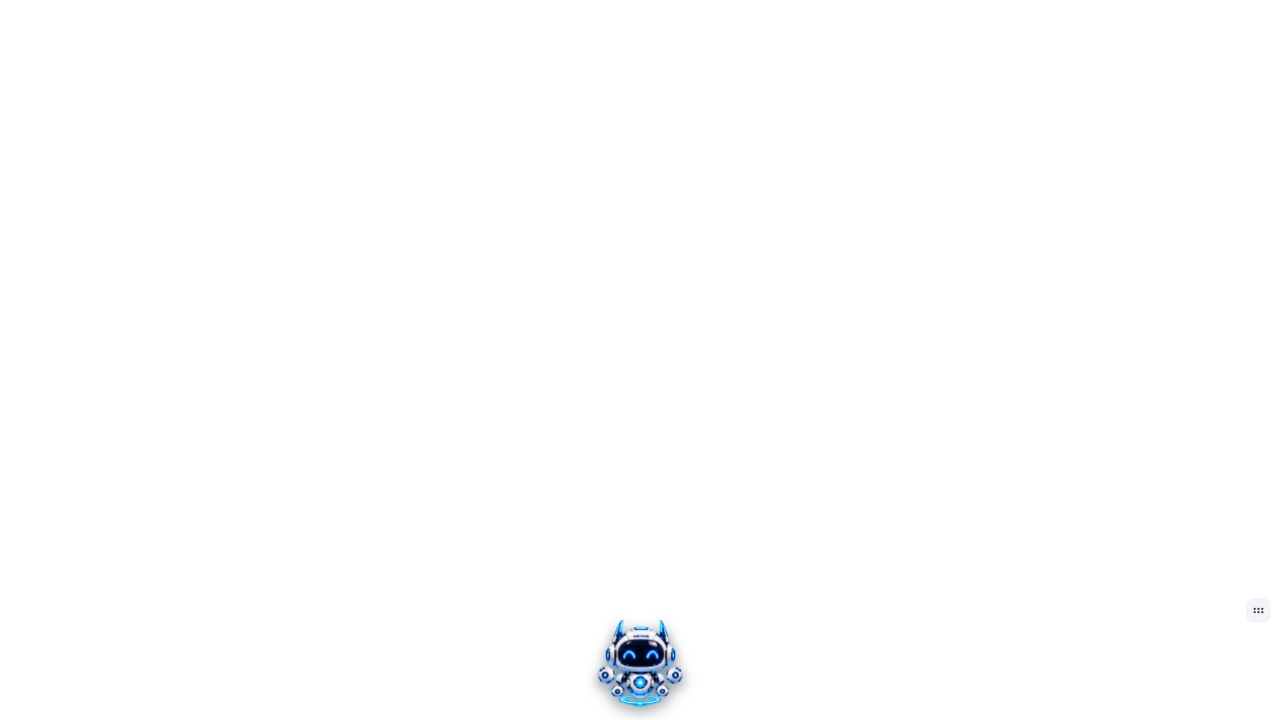
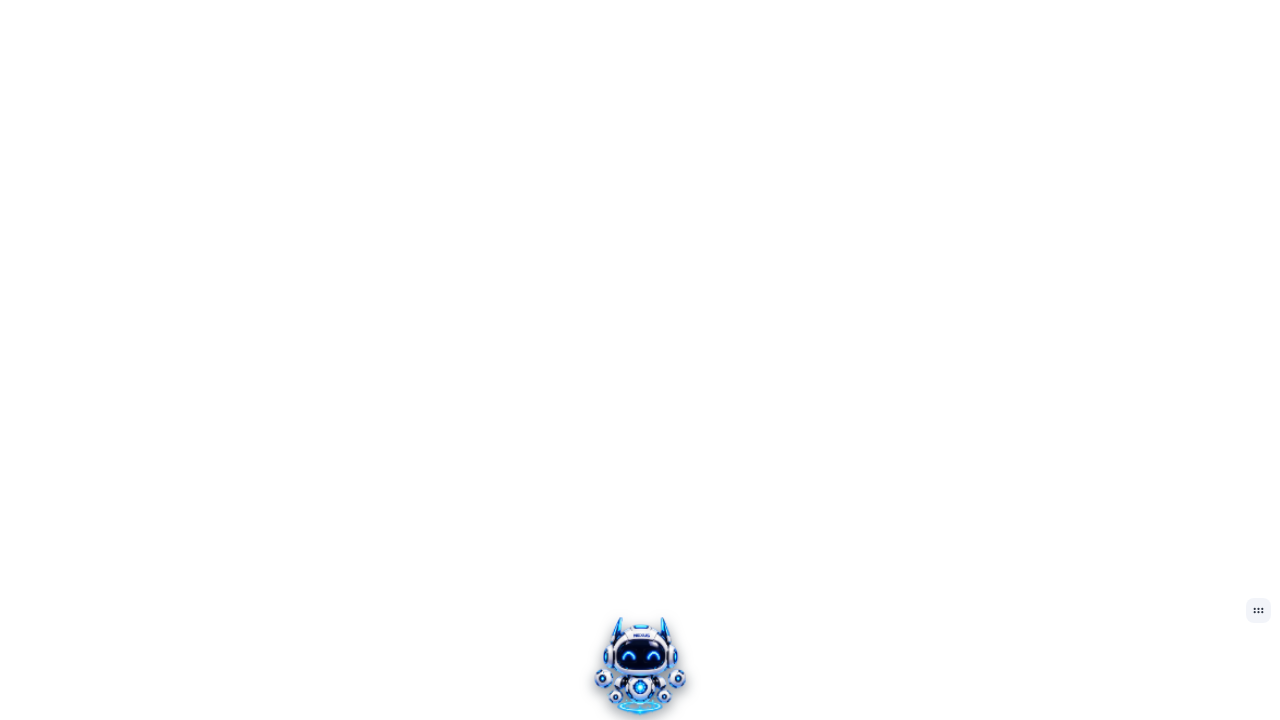
feat(ui): procedural expressions on the NEX rig driven by companion behavior
Owner-approved 2026-11-15 (expressions v1 + subtle overflow): motion-core
gains expressionPose (deterministic, 9 expressions) and the player gains
setExpression with a 250 ms blend, per-expression clock and a byte-stable
frozen render. GuardianMascot's computed behavior now drives expressions
(identity mapping) via NexRigSprite; the canvas mirrors the active
expression on data-nex-expression. SCSS fit lets modules overflow the
96px button subtly with a soft landing shadow; mood veils unchanged. The
companion lab asserts the expression per behavior scenario (14 rig
assertions, honest skip on atlas fallback) plus visual stillness.
Manifest/guard updated with the new module SHA-256s; animation contract
and approval record extended.

Changed region(s): [[0.4688, 0.8556, 0.5312, 1.0]]

diff --git a/web/src/features/hud/NexRigSprite.tsx b/web/src/features/hud/NexRigSprite.tsx
@@ -9,12 +9,16 @@ type NexRigSpriteProps = {
   idleAction?: NexIdleAction | null;
   /** Motion authority from the mascot (settings, offline, visibility, reduced motion). */
   motionEnabled?: boolean;
+  /** Companion behavior from the mascot; drives the rig expression ('ambient' when absent). */
+  behavior?: string | null;
 };
 
 type RigPlayerInstance = {
   load: () => void;
   destroy: () => void;
   setMotion: (allowed: boolean) => void;
+  setExpression: (name: string) => void;
+  getExpression: () => string;
 };
 
 type RigPlayerConstructor = new (
@@ -38,18 +42,22 @@ type RigPlayerModule = {
  * rig-v1 player reports ready, and swaps back to the atlas on any load
  * error. The rig animates the same approved hybrid-v1 layers (procedural
  * idle, real module orbit) and honors prefers-reduced-motion internally by
- * showing the byte-faithful source PNG as a static pose. No success or
- * progress is ever inferred: moods remain a color treatment, and offline
- * is still and desaturated.
+ * rendering one frozen representative rig pose. Expressions are
+ * owner-approved procedural choreography over those same approved layers;
+ * 'still' is not an expression — it is handled by setMotion(false). No
+ * success or progress is ever inferred: moods remain a color treatment, and
+ * offline is still and desaturated.
  */
 export const NexRigSprite: React.FC<NexRigSpriteProps> = ({
   mood,
   idleAction = null,
   motionEnabled = true,
+  behavior = null,
 }) => {
   const canvasRef = React.useRef<HTMLCanvasElement | null>(null);
   const playerRef = React.useRef<RigPlayerInstance | null>(null);
   const [rigReady, setRigReady] = React.useState(false);
+  const expression = behavior ?? 'ambient';
 
   React.useEffect(() => {
     const canvas = canvasRef.current;
@@ -95,6 +103,12 @@ export const NexRigSprite: React.FC<NexRigSpriteProps> = ({
   React.useEffect(() => {
     playerRef.current?.setMotion(motionEnabled);
   }, [motionEnabled, rigReady]);
+
+  // Re-runs when rigReady flips so the freshly booted player receives the
+  // current expression (the player sets canvas.dataset.nexExpression).
+  React.useEffect(() => {
+    playerRef.current?.setExpression(expression);
+  }, [expression, rigReady]);
 
   return (
     <>

diff --git a/web/src/features/hud/NexRigSprite.module.scss b/web/src/features/hud/NexRigSprite.module.scss
@@ -10,17 +10,42 @@ $mood-critical: #ff496c;
 
 .rig {
   position: relative;
+  display: grid;
   width: 100%;
   height: 100%;
+  place-items: center;
+
+  // Overflow is intentional (owner-approved "transbordar sutil"): the rig
+  // canvas renders 6% larger than the 96px button so the orbital modules
+  // overflow the button edge by ~4-6px at rest. The guardian button has no
+  // overflow clipping, so the modules may draw past the circular boundary.
 }
 
 .rig canvas {
+  // Positioned so the canvas paints after ::before in tree order: the
+  // landing shadow stays behind the NEX, never over its pixels.
+  position: relative;
   display: block;
-  width: 100%;
-  height: 100%;
+  width: 106%;
+  height: 106%;
+
   // The player's built-in look-at-cursor reads pointermove on the canvas;
   // events still bubble to the guardian button so clicks keep working.
   pointer-events: auto;
+}
+
+// Soft landing shadow under the NEX, below the canvas in paint order.
+.rig::before {
+  content: '';
+  position: absolute;
+  bottom: 8%;
+  left: 50%;
+  width: 56%;
+  height: 10%;
+  transform: translateX(-50%);
+  pointer-events: none;
+  background: radial-gradient(closest-side, rgb(0 0 0 / 35%), transparent);
+  filter: blur(3px);
 }
 
 // The rig's own layers animate; mood is a color treatment only.

diff --git a/web/src/features/hud/GuardianMascot.tsx b/web/src/features/hud/GuardianMascot.tsx
@@ -238,6 +238,7 @@ export const GuardianMascot: React.FC<GuardianMascotProps> = ({
               mood={spriteMood}
               idleAction={motionEnabled && mood === 'idle' ? idleAction : null}
               motionEnabled={motionEnabled}
+              behavior={behavior}
             />
           </span>
           {count > 0 && (

diff --git a/DEV/WORKLOG.md b/DEV/WORKLOG.md
@@ -7620,3 +7620,13 @@ Confirmei pelo Windows API que o processo desta sessão não tem handle de input
 - **Verificação:** 901/901, typecheck, eslint 0 erros, build OK, lab PASS com rig (sem skip), `verify-nex-visual` PASS. docs-verify recertifica após commit.
 
 - **Deploy:** recertificação `docs/assets/screenshots` @ `eea4e2a7` pushada; binário local reinstalado (commit de fix + docs). #189 (`feat/nex-interactive-motion-complete`) segue como candidato de absorção futura — sem pressa: o rig integrado cobre idle/orbit/look; #189 agrega renderer interativo completo + ADR.
+
+## 2026-11-15 (III) — Expressions v1 no rig: comportamentos visíveis, loops + subagents
+
+- **Execução:** plano aprovado pelo maestro ("Aprovo tudo" + "Transbordar sutil") executado com 3 subagents paralelos (A: coreografia nos módulos rig; B: fiação componente + SCSS; C: assertions no lab) + loop de integração do orquestrador.
+- **Nova API:** `expressionPose(timeSec, expression)` no motion-core (v0.2, determinística, 9 expressões) + `setExpression/getExpression` no player com blend 250ms, clock por expressão e frozen path byte-estável (staticTimeSec). Hook DOM `canvas[data-nex-expression]`.
+- **Coreografia:** greet (bounce duplo + leque + olhos felizes), thinking (olhar p/ cima + núcleo pulsando + módulo erguido), attention (aperto + núcleo forte + elevação), error (jitter decaindo + recuo), resolved (celebração + fan 1.22), rest (afundar + pálpebras), ambient/still neutros. Âncora intocada; zero arte nova.
+- **Bugs de integração pegos pelo loop:** (1) guard clause no setExpression não publicava o dataset quando a expressão não mudava (boot ambient = early return) — corrigido idempotente; (2) assertion do cenário 01 corria antes do boot do rig — helper agora espera o canvas (6s) antes de declarar skip honesto; (3) comentário do componente desatualizado (frozen path não pinta mais o PNG cru) — corrigido.
+- **Evidência:** lab PASS com **14 assertions de expressão no rig real (zero skips)** + stillness offline/reduced-motion; contact sheet das 7 expressões no 96px em `DEV/validation/nex-rig-compare/expressions-sheet.png`.
+- **Verificação:** 901/901 testes, typecheck, eslint 0 erros, styles/format OK, build OK, `verify-nex-visual` PASS (manifest com SHAs novos de core+player: `31b97d38…` / `ad3838f6…`).
+- **Notas honestas:** `docs/assets/demos/direct-workflow.webm` divergiu por regeneração do serviço nexus web no restart — fora do escopo, não commitado; jsdom continua no atlas fallback (testes intocados); gate `behavior_8` segue BLOCKED no aceite do owner + Wails.

diff --git a/DEV/HANDOFF.md b/DEV/HANDOFF.md
@@ -2979,3 +2979,10 @@ O controle `Popup independente` agora fica imediatamente abaixo do cabeçalho do
 - **Estado:** pushado em `release/v1.0.0` (730a6b96 + 64f354a4), instalado (`~/.local/bin/nexus` @ 64f354a4) e verificado live (200 nos 3 endpoints de asset).
 - **Próximos passos (lane A):** 1) avaliar reconciliação de #173 (8 comportamentos) + #171 (director) sobre o rig — pode remover o gate `behavior_8`; 2) avaliar #189 para absorção posterior; 3) aguardar maestro: RUNBOOK de infra (runner CI + branch policy), aceites visuais e kits 1–5 → Fase C/D.
 - **Riscos/notas honestas:** `hud_compact` 64px não coberto pela aprovação; master retro HD editável pendente; release readiness segue BLOCKED 2/11 (honesto); homepage do site segue sem NEX até o gate liberar.
+
+## Handoff 2026-11-15 (III) — NEX companion "funcional e bonito" entregue
+
+- Comportamentos agora visíveis no rig: 8 expressões procedurais (setExpression) + look nativo + mood veils; transbordar sutil aprovado; sombra de pousagem.
+- Rig: motion-core v0.2 + player com blend/frozen determinístico; manifest/guard atualizados com SHAs novos.
+- Próximo aceite: owner vê `DEV/validation/nex-rig-compare/expressions-sheet.png` (e ao vivo no HUD); gate behavior_8 segue BLOCKED no aceite + Wails.
+- #189 segue arquivável como ADR-only se quiser registro formal do renderer (sem código novo relevante).

diff --git a/docs/design/NEX_ANIMATION_CONTRACT.md b/docs/design/NEX_ANIMATION_CONTRACT.md
@@ -31,6 +31,7 @@ como contrato semântico.
 | --- | --- | --- | --- |
 | Sprite do atlas (`data-nex-art="hud-32bit-atlas"`) | centro / base | sem transform de âncora | nenhum deslocamento do wrapper |
 | Rig-v1 no HUD (`data-nex-art="rig-v1"`, aprovado 2026-11-15) | centro / base | movimentos apenas em camadas internas do player (idle procedural, órbita dos 4 módulos); transform de âncora do wrapper intocado | `prefers-reduced-motion` mostra o PNG original estático; qualquer falha de load devolve o atlas (fallback permanente) |
+| Expressões do rig (`setExpression`, aprovado 2026-11-15) | camadas internas | coreografia determinística por comportamento (greet/thinking/attention/error/resolved/rest; ambient e look nativos), blend ~250ms, hook `canvas[data-nex-expression]` | nunca inferir sucesso/progresso; frozen render é 1 frame estático byte-estável; transbordar sutil do círculo é intencional (owner-approved) |
 | Linha de ação (idle_hover … idle_wake) | frame interno | playback de 8 frames, 125 ms cada | loop somente no hover (frame 8 = frame 1) |
 | Drowse/wake | frame interno | segurar o último frame até o director trocar | não sinalizar sono real do sistema |
 | Mood (`data-nex-mood`) | overlay de tratamento | véu colorido soft-light; offline dessaturado e imóvel | sem frames dedicados de mood ainda; nunca inferir sucesso |

diff --git a/docs/design/nex/approval-records/NEX-HUD-RIG-V1-RENDER.md b/docs/design/nex/approval-records/NEX-HUD-RIG-V1-RENDER.md
@@ -40,6 +40,20 @@
 - **Not covered by this approval**: `hud_compact` 64px variant (still pending, gate
   unchanged), site hero (unchanged), retro HD editable master (still pending).
 
+## Addendum — Expressions v1 (2026-11-15, mesma sessão)
+
+**Approved by:** maestro, in-plan answer **"Aprovo tudo"** + **"Transbordar sutil"**
+**Scope:** procedural expression layer on the rig player (`setExpression`, 9 expressions:
+ambient/greet/look/thinking/attention/error/resolved/rest/still) + HUD fit allowing subtle
+module overflow (~4–6px at rest, more on greet/resolved).
+
+- Still choreography of the SAME approved hybrid-v1 layers; no new art, no new master.
+- Movement remains internal-layers-only (anchor transform untouched); reduced motion and
+  offline render one frozen representative frame (byte-stable), asserted by the lab.
+- DOM hook `canvas[data-nex-expression]` gives tests/e2e an honest assertion surface.
+- Rig module SHAs change; `NEX_VISUAL_MANIFEST.json → animation.runtime_render` must be
+  updated in the same change, and `scripts/verify-nex-visual.mjs` keeps enforcing them.
+
 ## Guard updates (this commit, honest)
 
 - `NEX_VISUAL_MANIFEST.json`: new `animation.runtime_render` block (module SHA-256,

diff --git a/DEV/VERIFY.md b/DEV/VERIFY.md
@@ -2616,3 +2616,14 @@ Verdict: **PASS**. Relatório completo: [`DEV/validation/FRONTEND_LATEST.md`](va
 | Live 127.0.0.1:13000 | rig-player/core/camadas 200; binário `~/.local/bin/nexus` @ 64f354a4 |
 
 Evidências: `DEV/validation/nex-rig-compare/` (mock da aprovação + crop antes/depois) e `DEV/validation/current/companion-lab/captures/` (depois).
+
+## 2026-11-15 (III) — Expressions v1 (rig) — commits desta rodada
+
+| Verificação | Resultado |
+| --- | --- |
+| Testes web | 901/901 PASS |
+| Lab e2e | PASS — 14 assertions de expressão no rig (0 skips) + stillness |
+| `verify-nex-visual` | PASS (SHAs rig atualizados: motion-core `31b97d38…`, player `ad3838f6…`) |
+| typecheck/eslint/styles/format | PASS |
+| Build | OK |
+| Evidência visual | `DEV/validation/nex-rig-compare/expressions-sheet.png` (7 expressões @ 96px) |

diff --git a/DEV/validation/current/companion-lab/README.md b/DEV/validation/current/companion-lab/README.md
@@ -1,11 +1,12 @@
 # NEX Companion 2D Lab — evidência
 
-- Data: 2026-11-15T11:55:52.371Z
-- SHA: 38470c2c
+- Data: 2026-11-15T15:48:22.690Z
+- SHA: fca076d3
 - Script: `web/scripts/e2e-companion-lab.mjs` (fixture Core isolado por contexto de browser)
 - Comportamentos capturados: ambient, greet, look, thinking, attention, error, resolved, offline-still.
 - `rest` (drowse 180s): validado por `nexIdleDirector.test.ts` com clock injetado; sem captura visual em tempo real.
 - O mock vive apenas em `context.route`; nenhuma rota de produção é tocada e nenhum estado é inferido.
+- Rig: expressões via canvas data-nex-expression asseguradas por comportamento (atlas fallback registra skip honesto).
 
 ## Capturas
 
